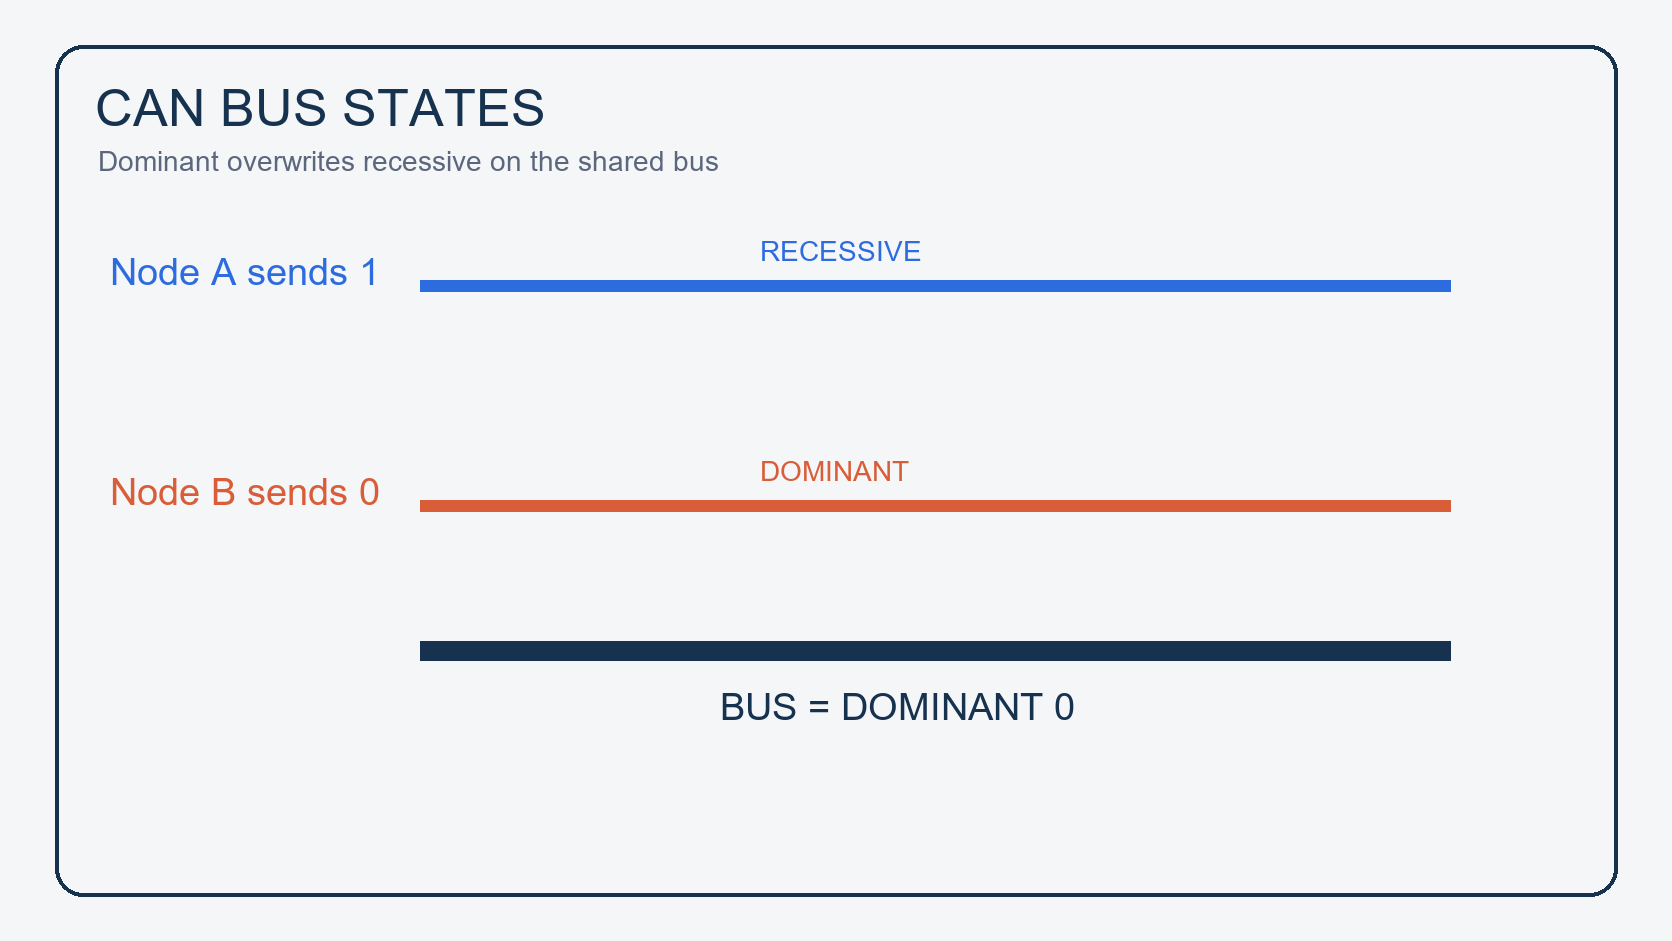
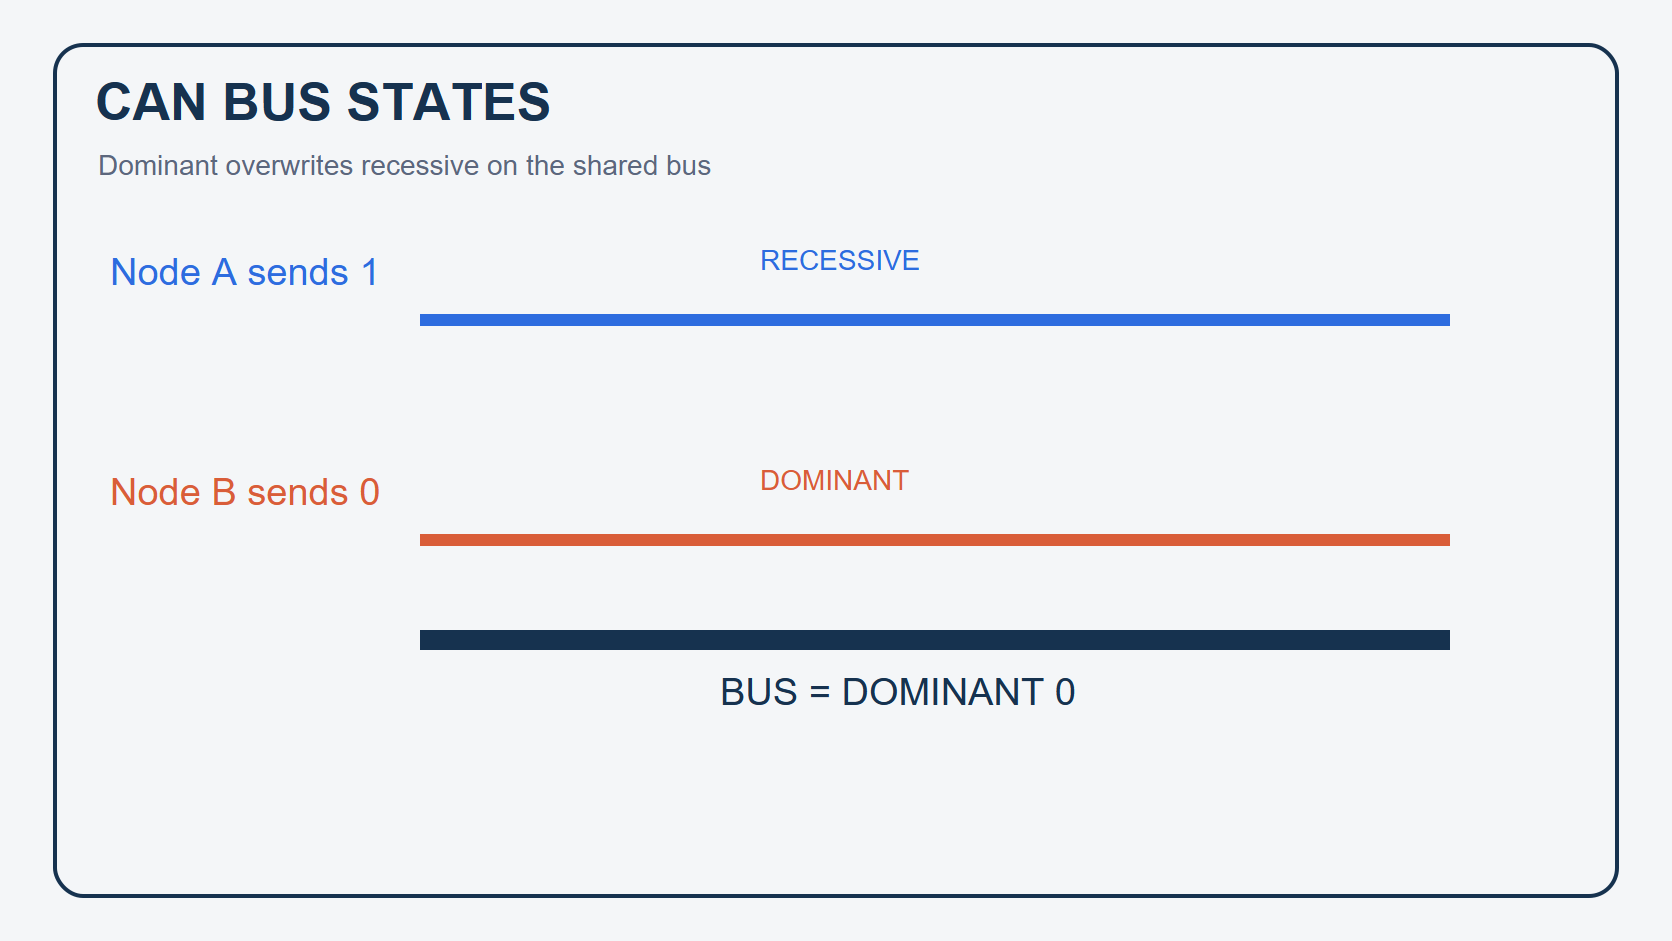
Add deterministic CAN diagram provenance

diff --git a/scripts/generate_can_arbitration_assets.py b/scripts/generate_can_arbitration_assets.py
@@ -1,0 +1,109 @@
+"""Deterministically rasterize the CAN arbitration technical diagrams."""
+
+from __future__ import annotations
+
+import hashlib
+from pathlib import Path
+
+import cairosvg
+
+
+ROOT = Path(__file__).resolve().parents[1]
+SOURCE = ROOT / "assets/can_arbitration_illustrations/source"
+OUTPUT = ROOT / "assets/can_arbitration_illustrations"
+BG = "#F4F6F8"
+NAVY = "#16324F"
+BLUE = "#2D6CDF"
+RED = "#D95D39"
+GREEN = "#2A9D8F"
+GRAY = "#5C677D"
+GOLD = "#F2C14E"
+
+
+def svg(title: str, subtitle: str, body: str) -> str:
+    return f'''<svg xmlns="http://www.w3.org/2000/svg" width="1672" height="941" viewBox="0 0 1672 941">
+<rect width="1672" height="941" fill="{BG}"/>
+<rect x="55" y="45" width="1562" height="851" rx="28" fill="none" stroke="{NAVY}" stroke-width="4"/>
+<text x="95" y="120" font-family="Arial" font-size="52" font-weight="700" fill="{NAVY}">{title}</text>
+<text x="98" y="175" font-family="Arial" font-size="28" fill="{GRAY}">{subtitle}</text>
+{body}
+</svg>'''
+
+
+def write(name: str, content: str) -> None:
+    SOURCE.mkdir(parents=True, exist_ok=True)
+    OUTPUT.mkdir(parents=True, exist_ok=True)
+    source = SOURCE / f"{name}.svg"
+    output = OUTPUT / f"{name}.png"
+    source.write_text(content, encoding="utf-8")
+    cairosvg.svg2png(bytestring=content.encode("utf-8"), write_to=str(output), output_width=1672, output_height=941)
+
+
+def bit_boxes(y: int, bits: str, color: str) -> str:
+    parts = []
+    x = 520
+    for bit in bits.split():
+        fill = color if bit == "0" else "#FFFFFF"
+        text_fill = "#FFFFFF" if bit == "0" else color
+        parts.append(f'<rect x="{x}" y="{y}" width="70" height="70" rx="8" fill="{fill}" stroke="{color}" stroke-width="3"/><text x="{x + 25}" y="{y + 48}" font-family="Arial" font-size="38" fill="{text_fill}">{bit}</text>')
+        x += 78
+    return "".join(parts)
+
+
+def id_boxes(y: int, bits: str, color: str) -> str:
+    parts = []
+    x = 300
+    for bit in bits.split():
+        fill = color if bit == "0" else "#FFFFFF"
+        text_fill = "#FFFFFF" if bit == "0" else color
+        parts.append(f'<rect x="{x}" y="{y}" width="110" height="90" rx="10" fill="{fill}" stroke="{color}" stroke-width="4"/><text x="{x + 38}" y="{y + 58}" font-family="Arial" font-size="38" fill="{text_fill}">{bit}</text>')
+        x += 200
+    return "".join(parts)
+
+
+def main() -> int:
+    write("01-dominant-recessive", svg("CAN BUS STATES", "Dominant overwrites recessive on the shared bus", f'''
+<text x="110" y="285" font-family="Arial" font-size="38" fill="{BLUE}">Node A sends 1</text>
+<text x="110" y="505" font-family="Arial" font-size="38" fill="{RED}">Node B sends 0</text>
+<line x1="420" y1="320" x2="1450" y2="320" stroke="{BLUE}" stroke-width="12"/>
+<line x1="420" y1="540" x2="1450" y2="540" stroke="{RED}" stroke-width="12"/>
+<text x="760" y="270" font-family="Arial" font-size="28" fill="{BLUE}">RECESSIVE</text>
+<text x="760" y="490" font-family="Arial" font-size="28" fill="{RED}">DOMINANT</text>
+<line x1="420" y1="640" x2="1450" y2="640" stroke="{NAVY}" stroke-width="20"/>
+<text x="720" y="705" font-family="Arial" font-size="38" fill="{NAVY}">BUS = DOMINANT 0</text>'''))
+    write("02-two-node-bits", svg("BITWISE ARBITRATION", "Every transmitter monitors the bus while it sends", f'''
+<text x="110" y="270" font-family="Arial" font-size="38" fill="{BLUE}">Node A ID 0x120</text>
+<text x="110" y="430" font-family="Arial" font-size="38" fill="{RED}">Node B ID 0x320</text>
+{bit_boxes(300, '0 0 1 0 0 0 0 0 0 0 0', BLUE)}
+{bit_boxes(460, '0 1 1 0 0 0 0 0 0 0 0', RED)}
+<line x1="520" y1="710" x2="1450" y2="710" stroke="{GOLD}" stroke-width="18"/>
+<text x="610" y="755" font-family="Arial" font-size="28" fill="{NAVY}">TX=1, BUS=0 → Node B stops</text>
+<text x="140" y="390" font-family="Arial" font-size="28" fill="{GRAY}">send + sample</text>
+<text x="140" y="550" font-family="Arial" font-size="28" fill="{GRAY}">send + sample</text>'''))
+    write("03-id-compare", svg("IDENTIFIER COMPARISON", "Lower numeric ID reaches dominant first", f'''
+<text x="150" y="270" font-family="Arial" font-size="38" fill="{NAVY}">bit</text>
+<text x="320" y="270" font-family="Arial" font-size="38" fill="{NAVY}">10</text><text x="520" y="270" font-family="Arial" font-size="38" fill="{NAVY}">9</text><text x="720" y="270" font-family="Arial" font-size="38" fill="{NAVY}">8</text><text x="920" y="270" font-family="Arial" font-size="38" fill="{NAVY}">7</text>
+<text x="150" y="400" font-family="Arial" font-size="38" fill="{BLUE}">0x120</text><text x="150" y="550" font-family="Arial" font-size="38" fill="{RED}">0x320</text>
+{id_boxes(330, '0 0 1 0', BLUE)}
+{id_boxes(480, '0 1 1 0', RED)}
+<text x="1080" y="400" font-family="Arial" font-size="28" fill="{BLUE}">dominant</text><text x="1080" y="550" font-family="Arial" font-size="28" fill="{RED}">recessive</text>
+<text x="180" y="720" font-family="Arial" font-size="38" fill="{NAVY}">At bit 9: 0 wins over 1 → 0x120 keeps transmitting</text>'''))
+    write("04-loser-stops", svg("NON-DESTRUCTIVE RESULT", "Loser stops; winner continues without a collision", f'''
+<text x="130" y="285" font-family="Arial" font-size="28" fill="{GRAY}">time →</text><line x1="350" y1="325" x2="1450" y2="325" stroke="{NAVY}" stroke-width="4"/>
+<text x="120" y="445" font-family="Arial" font-size="38" fill="{BLUE}">Node A</text><line x1="350" y1="460" x2="850" y2="460" stroke="{BLUE}" stroke-width="18"/><text x="600" y="385" font-family="Arial" font-size="28" fill="{GREEN}">wins</text><line x1="850" y1="460" x2="1450" y2="460" stroke="{GREEN}" stroke-width="18"/>
+<text x="120" y="610" font-family="Arial" font-size="38" fill="{RED}">Node B</text><line x1="350" y1="625" x2="850" y2="625" stroke="{RED}" stroke-width="18"/><text x="720" y="690" font-family="Arial" font-size="28" fill="{RED}">loses arbitration</text><line x1="850" y1="625" x2="1450" y2="625" stroke="#BBBBBB" stroke-width="8"/>
+<line x1="850" y1="250" x2="850" y2="730" stroke="{GOLD}" stroke-width="5"/><text x="900" y="735" font-family="Arial" font-size="28" fill="{NAVY}">header decision point</text>'''))
+    write("05-checklist", svg("CAN ARBITRATION CHECK", "A reproducible five-step explanation", f'''
+<text x="270" y="250" font-family="Arial" font-size="38" fill="{NAVY}">dominant beats recessive</text>
+<text x="270" y="340" font-family="Arial" font-size="38" fill="{NAVY}">nodes compare identifier bits</text>
+<text x="270" y="430" font-family="Arial" font-size="38" fill="{NAVY}">recessive + dominant = loss</text>
+<text x="270" y="520" font-family="Arial" font-size="38" fill="{NAVY}">loser stops transmitting</text>
+<text x="270" y="610" font-family="Arial" font-size="38" fill="{NAVY}">winner frame remains intact</text>
+<text x="970" y="720" font-family="Arial" font-size="38" fill="{RED}">priority = lower ID</text>'''))
+    print("can_assets_generated")
+    return 0
+
+
+if __name__ == "__main__":
+    raise SystemExit(main())
+
